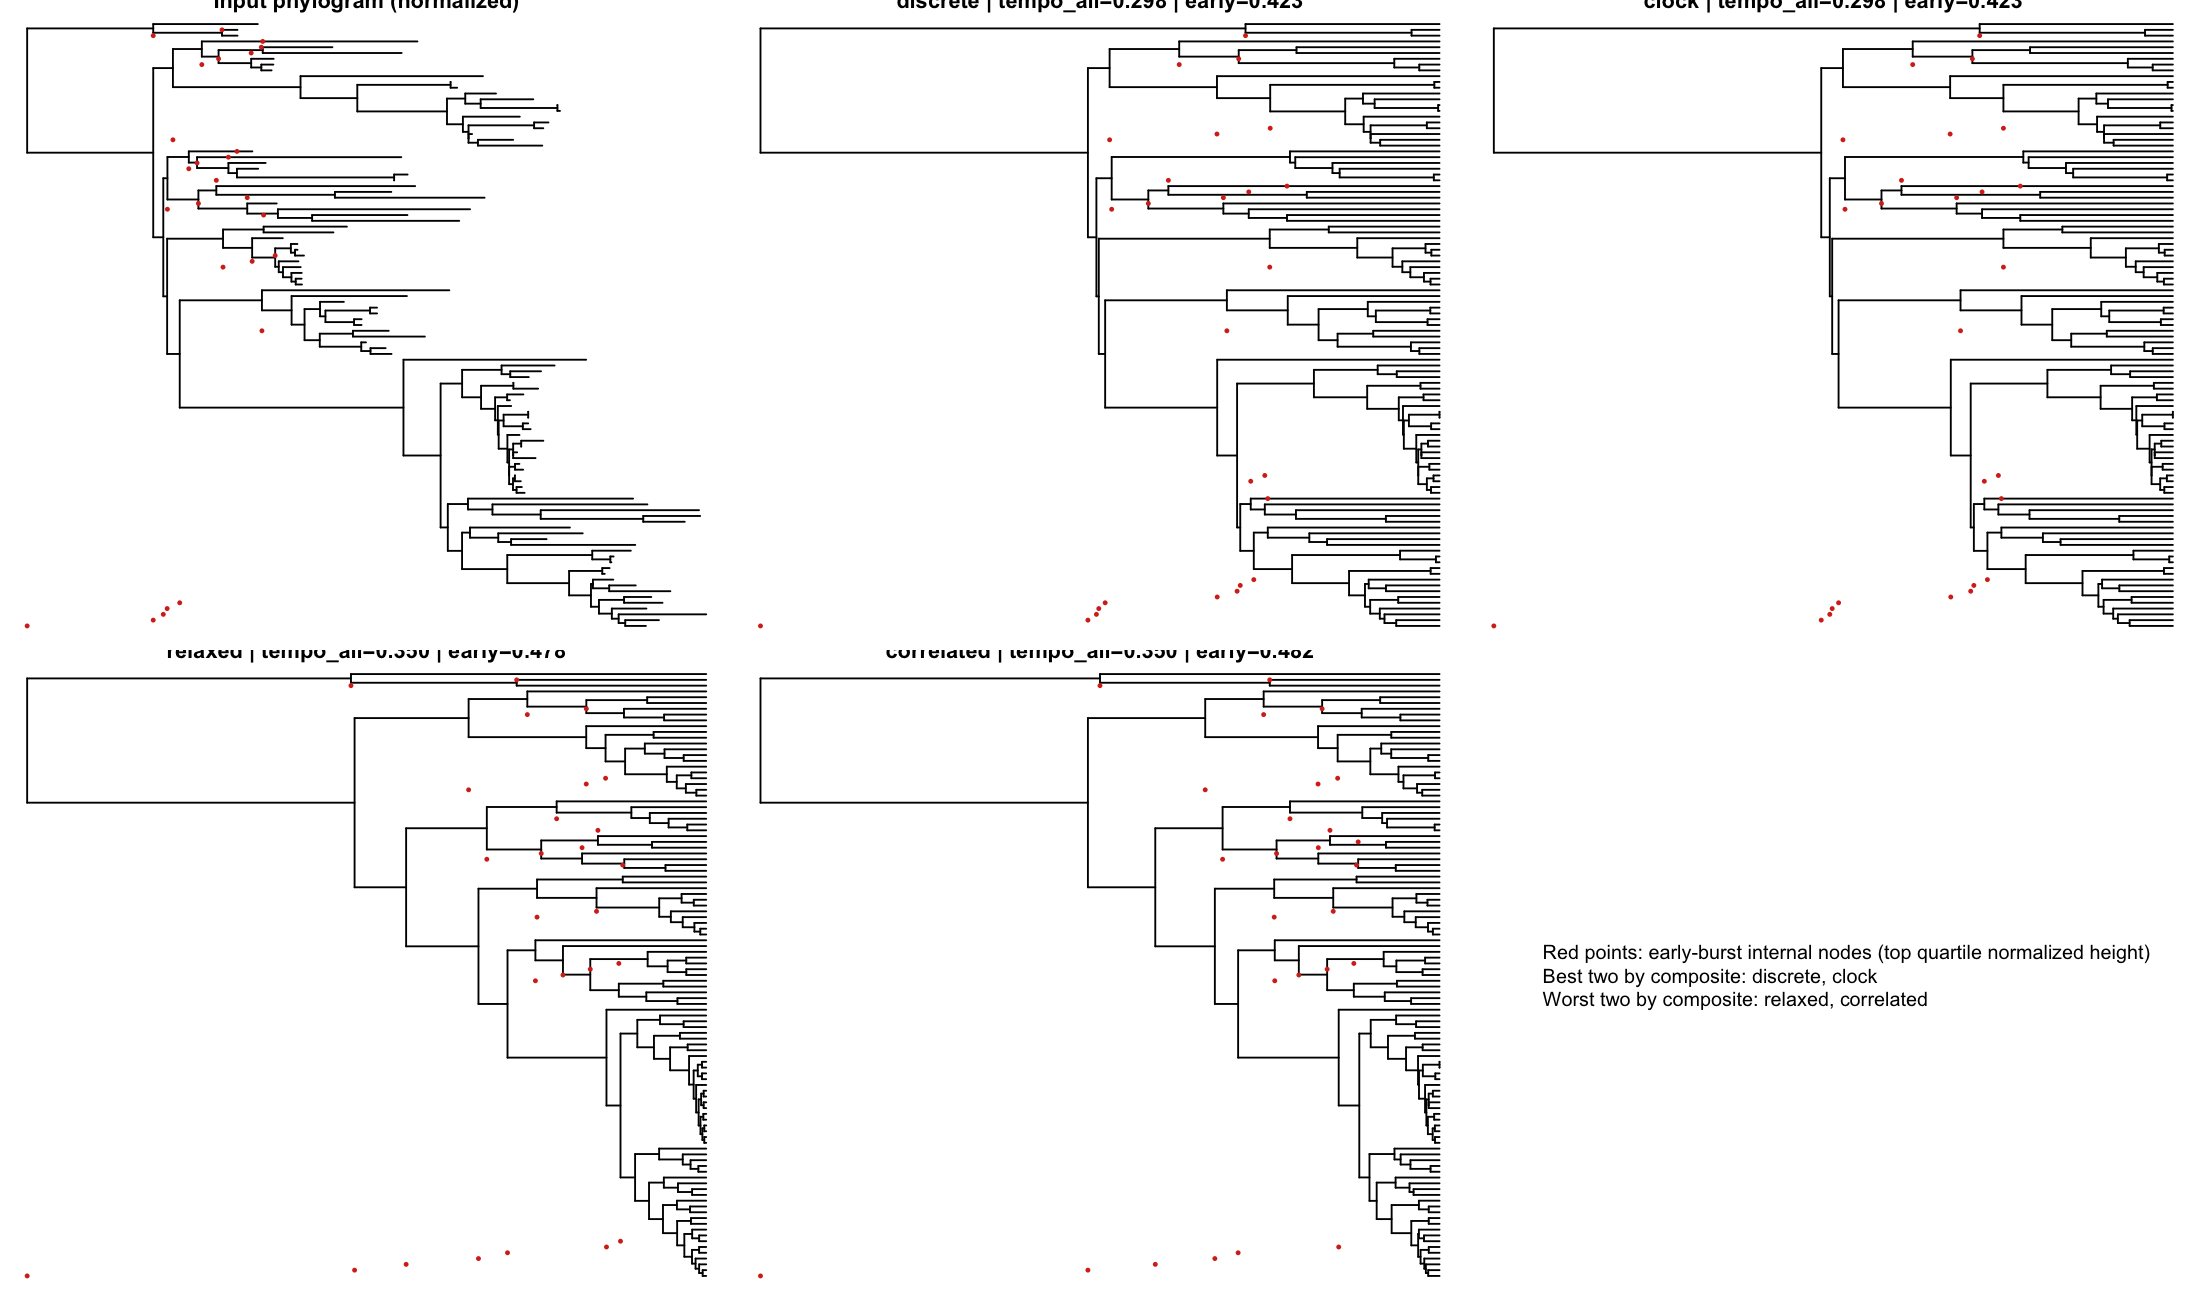
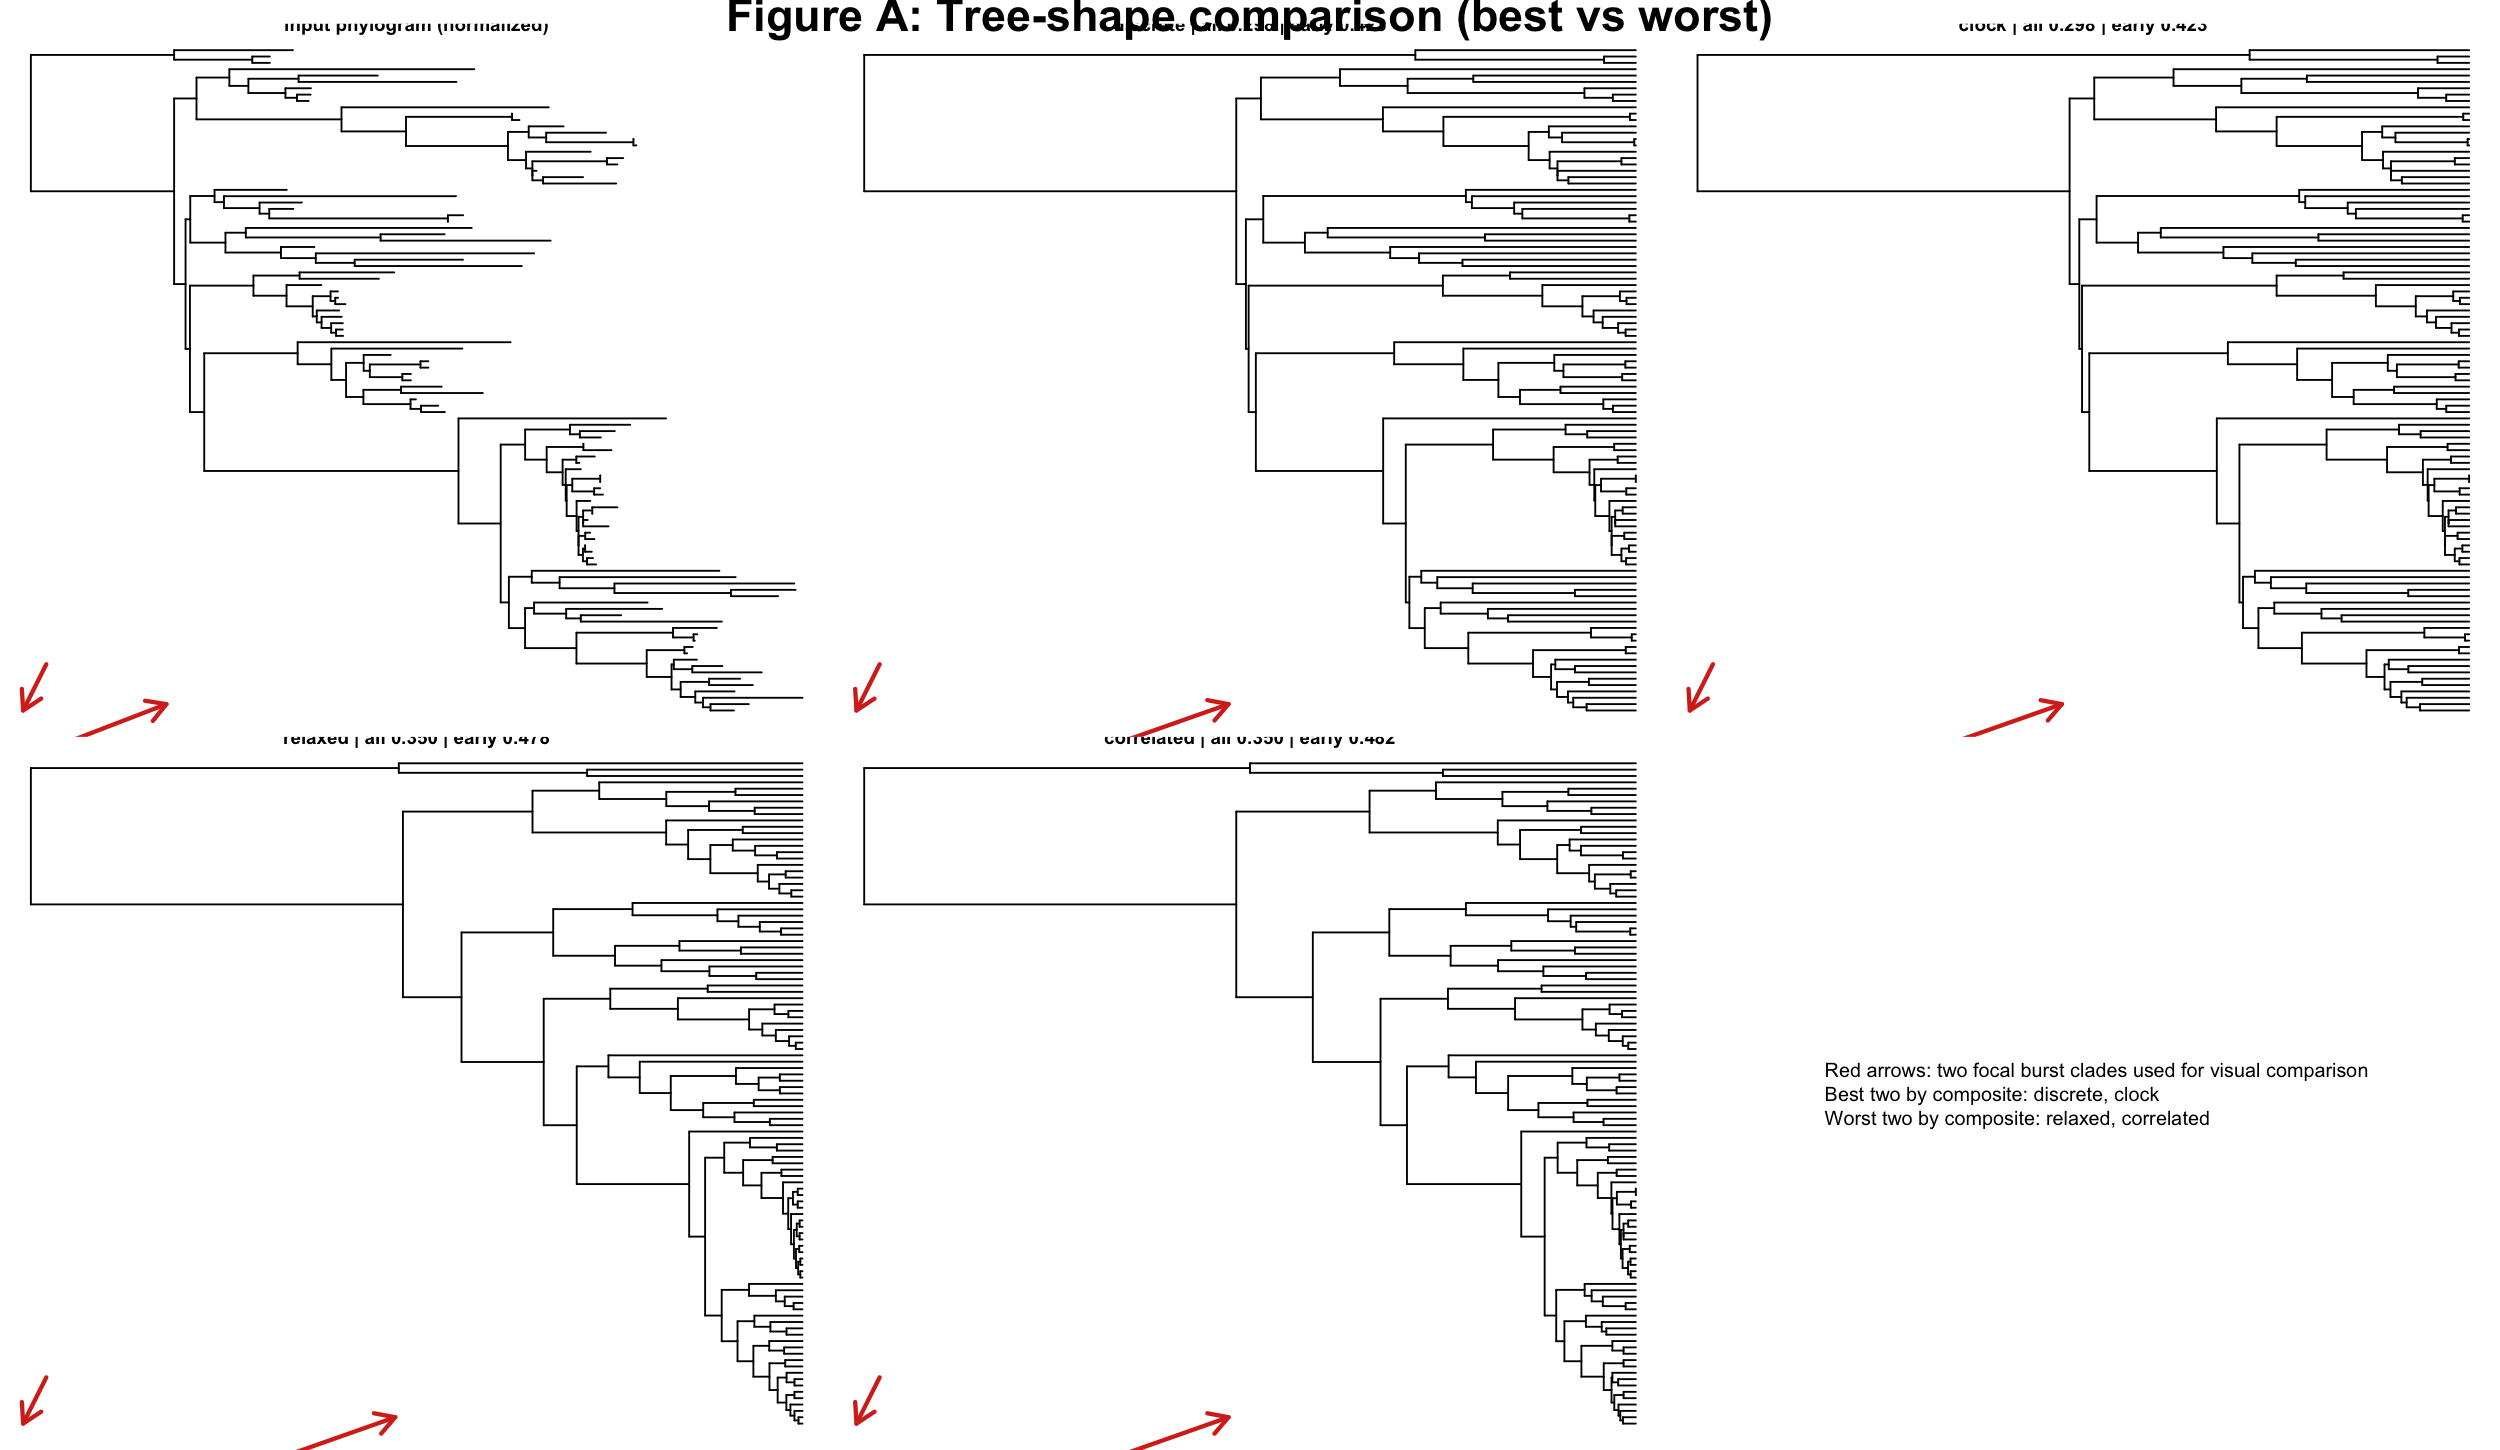
Refine Branching-Tempo Figure A: two red arrows and unclipped labels

diff --git a/2_CHRONOS_CUSTOM_DATING_TREE_PIPELINE/BRANCHING_TEMPO_METRIC_GUIDE.md b/2_CHRONOS_CUSTOM_DATING_TREE_PIPELINE/BRANCHING_TEMPO_METRIC_GUIDE.md
@@ -34,7 +34,7 @@ Interpretation for this example: the two lowest-metric trees (discrete, clock) p
 How to read:
 
 - All trees are normalized to comparable root-to-tip scale.
-- Red points mark early-burst internal nodes (top quartile normalized node heights).
+- Red arrows point to the same two focal burst clades in every tree for direct visual comparison.
 - The best two metric trees retain burst placement more similarly to the input phylogram than the worst two.
 
 ## Figure B: Node-height distribution (tempo shape)
